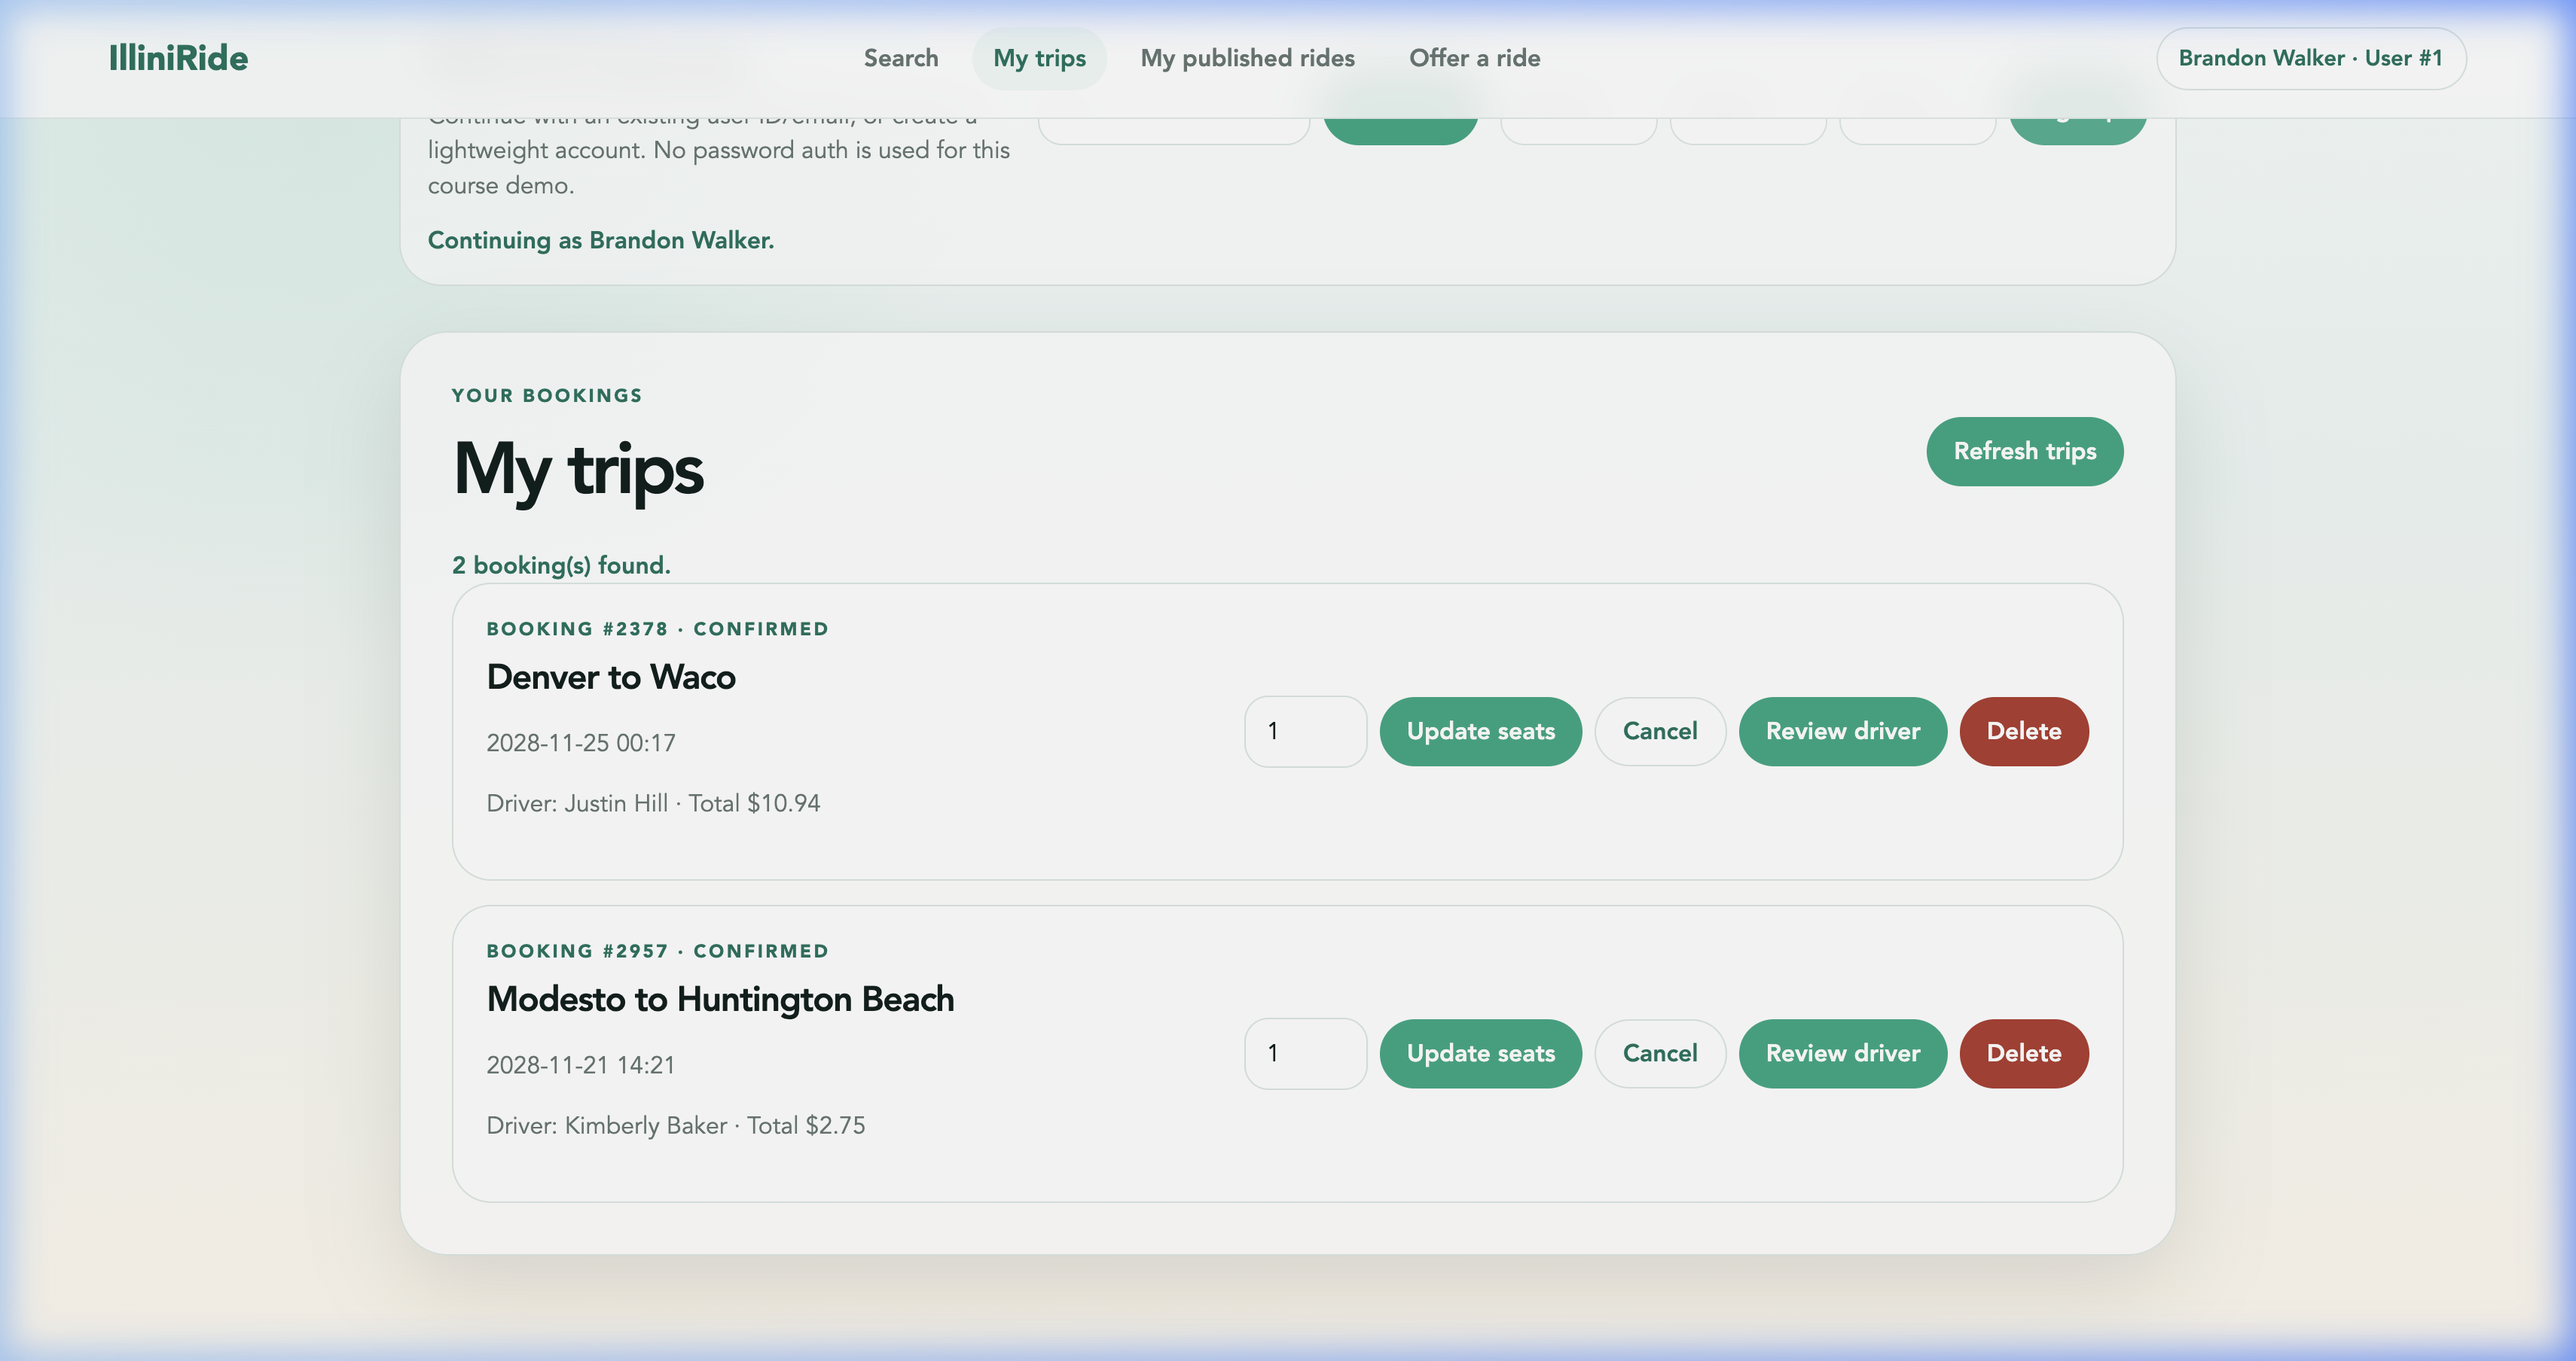
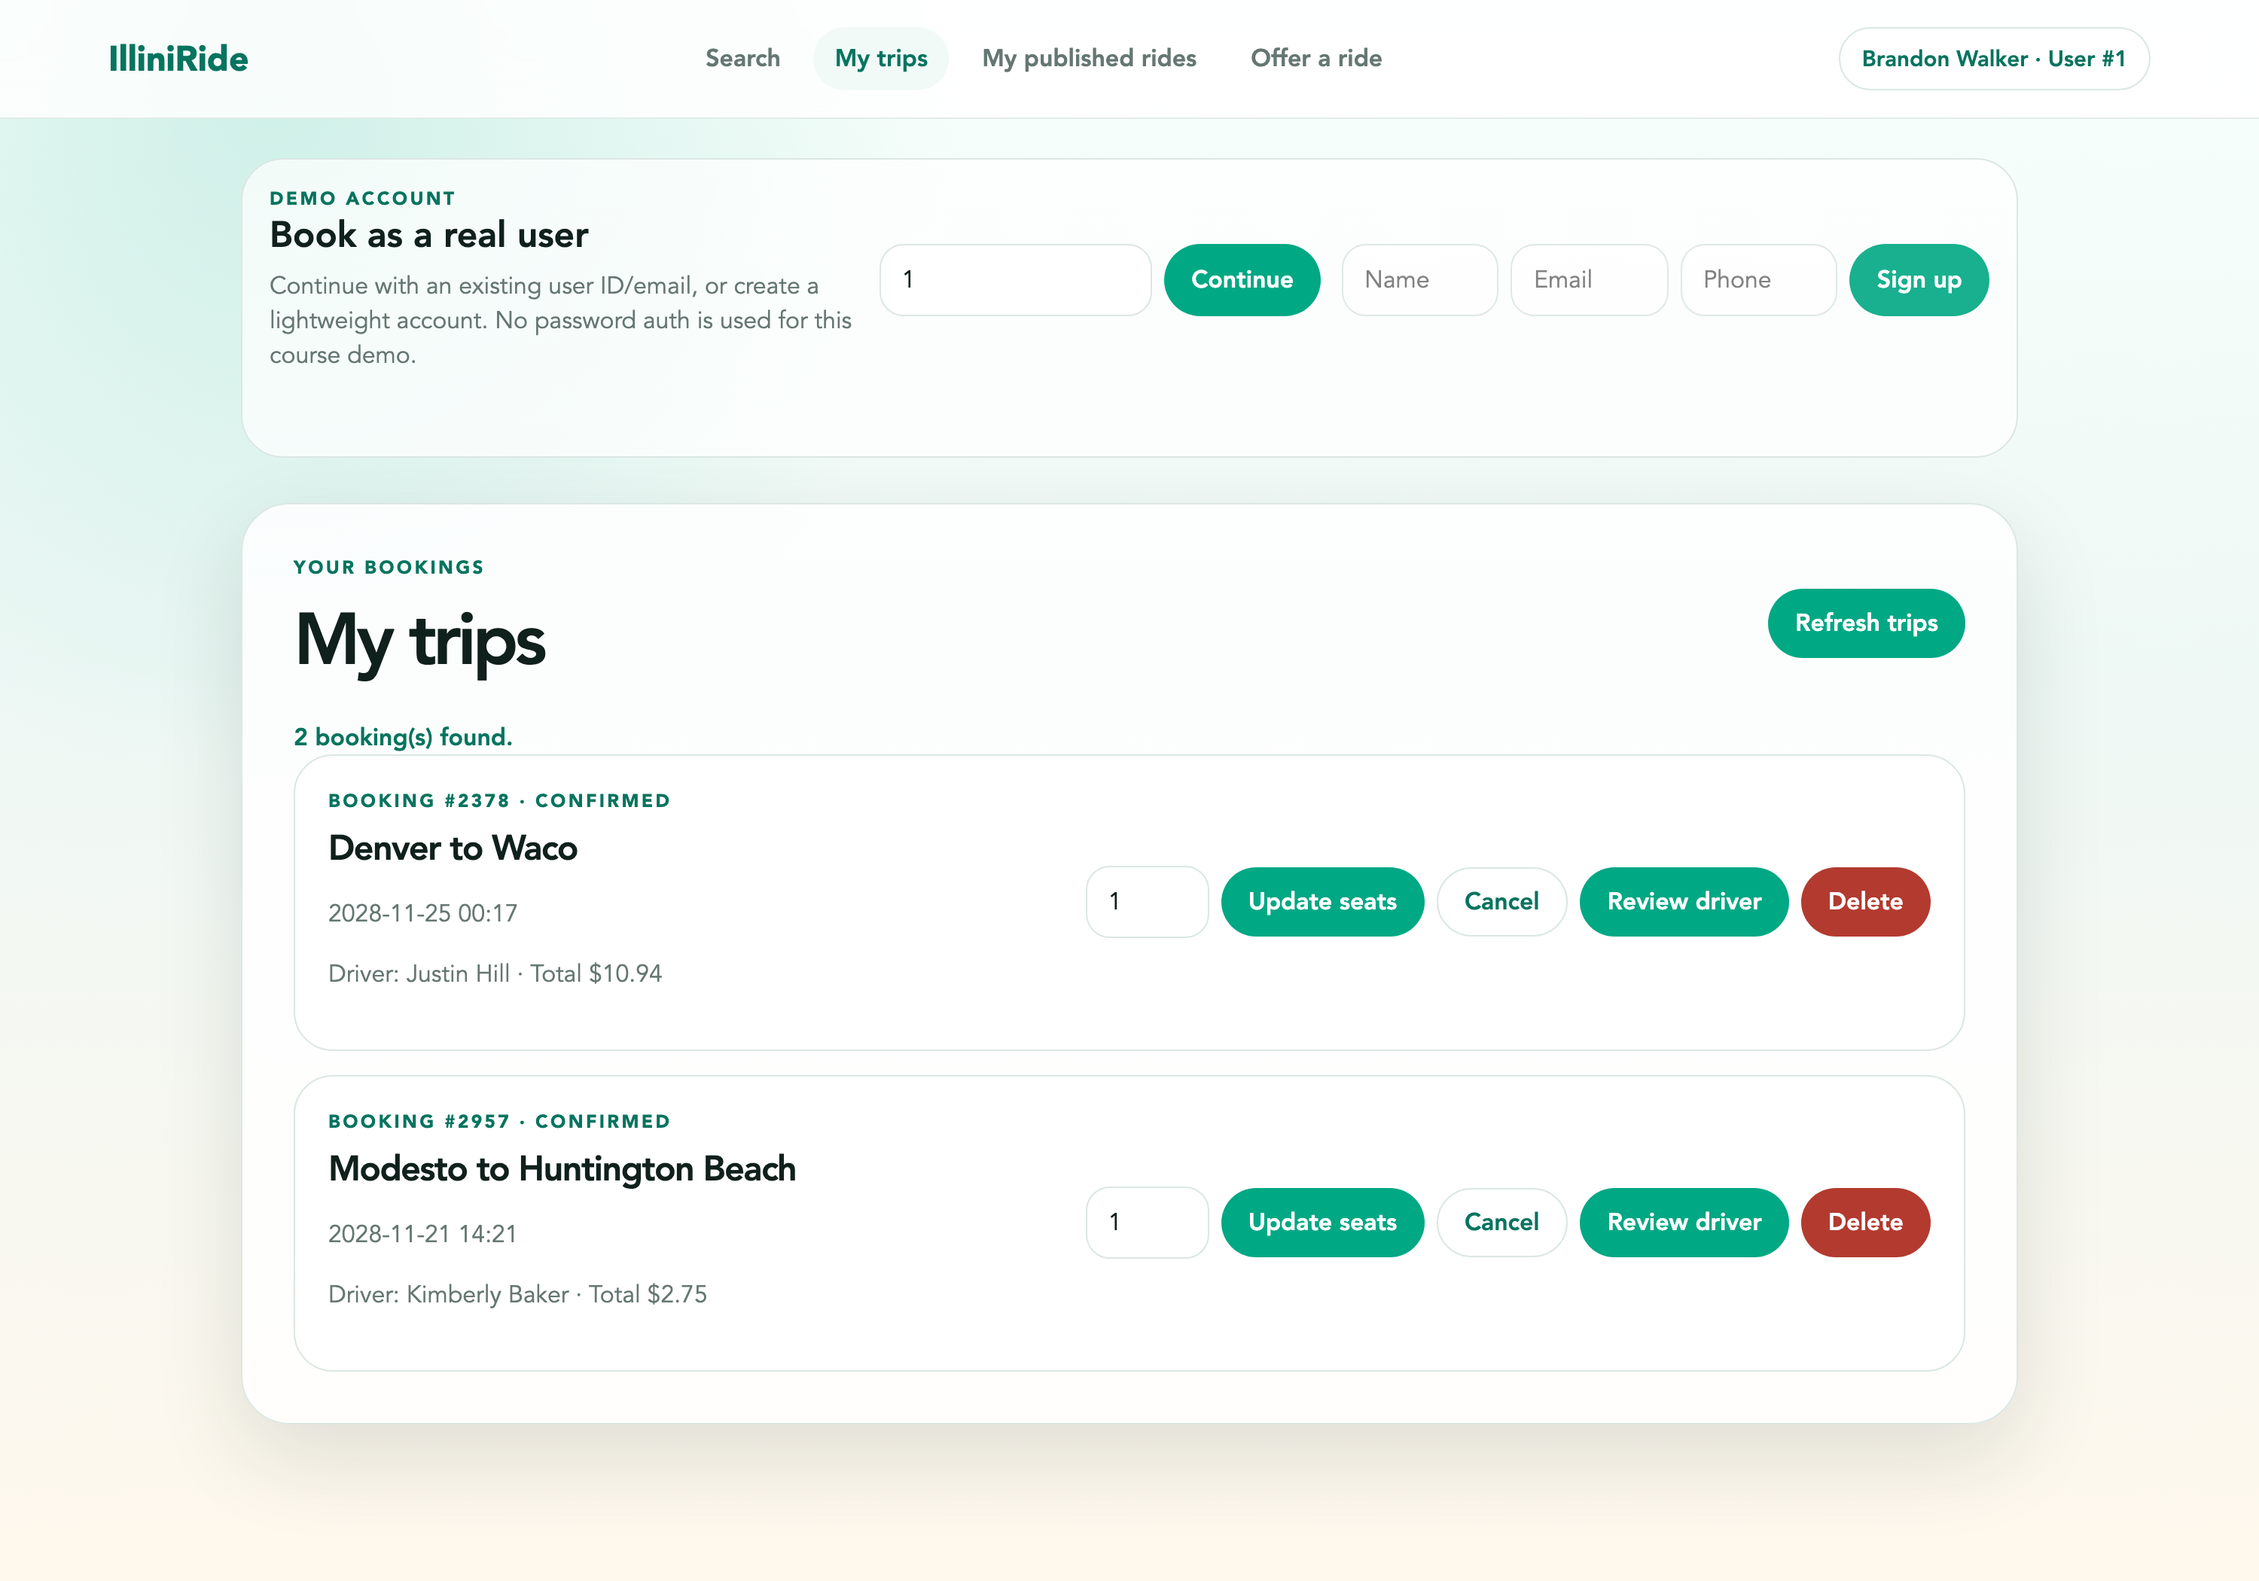
Updating readme with more features

Changed region(s): [[0.0, 0.0, 1.0, 1.0], [0.527, 0.2478, 0.899, 0.8982], [0.279, 0.4336, 0.31, 0.4646]]

diff --git a/app/public/index.html b/app/public/index.html
@@ -45,7 +45,7 @@
         <section class="hero">
           <div class="hero-copy">
             <p class="eyebrow">Campus carpooling</p>
-            <h1>Share the ride out of Champaign.</h1>
+            <h1>Share the ride out of your city.</h1>
             <p>
               Find open seats, book instantly, and split the cost with drivers
               heading the same way.

diff --git a/README.md b/README.md
@@ -37,17 +37,29 @@ Commuting between the UIUC campus and major hubs like Chicago or O'Hare (ORD) is
 
 ## 📸 Application Screenshots
 
-### 1. Ride Search & Availability
-Search for available campus carpools by origin, destination city, date, and seat count:
+### 1. Ride Search & Live Availability
+Search for available campus carpools by origin, destination city, date, and seat count with real-time seat tracking:
 ![Search Rides](doc/screenshots/search_rides.png)
 
-### 2. Offer a Ride & Dynamic Price Calculation
-Drivers can publish rides with automated distance-based suggested pricing powered by MySQL stored procedures:
+### 2. Interactive Booking Flow & Confirmation
+Review trip itinerary, vehicle details, driver ratings, and calculate total cost before safe transactional booking (`sp_book_ride_transaction`):
+![Confirm Booking](doc/screenshots/booking_confirmation.png)
+
+### 3. Offer a Ride & Dynamic Price Calculation
+Drivers can publish rides with automated distance-based suggested pricing powered by MySQL stored procedures (`sp_post_ride_with_suggested_price`):
 ![Offer a Ride](doc/screenshots/offer_ride.png)
 
-### 3. Trips & Bookings Management
-Manage bookings with transaction safety and live status updates:
+### 4. Driver Dashboard — Published Rides
+View all offered carpool rides, current schedules, seat occupancy, and status:
+![Published Rides](doc/screenshots/published_rides.png)
+
+### 5. Rider Dashboard — Trips & Bookings Management
+Manage bookings with transaction safety, update seat counts, cancel trips, and delete reservations:
 ![My Trips](doc/screenshots/my_trips.png)
+
+### 6. Driver Review & Automated Rating Recomputation
+Submit feedback and driver star ratings; triggers automatically recalculate aggregate driver scores (`trg_reviews_after_insert_update_user_rating`):
+![Review Driver](doc/screenshots/review_driver.png)
 
 ---
 
@@ -57,6 +69,7 @@ Manage bookings with transaction safety and live status updates:
 - 🏷 **Dynamic Price Suggestion:** Stored procedure calculates geospatial distance between cities to suggest fair base prices.
 - 🛡 **Safe Seat Booking (ACID):** Stored procedure with serializable transaction isolation prevents overbooking and duplicate reservations.
 - 📋 **Full CRUD Operations:** Complete management for Bookings and Rides with raw SQL execution (zero ORM overhead).
+- 🚗 **Driver Management & Fleet Linking:** Easily select verified driver vehicles when publishing new routes.
 - ⭐ **Automated Rating System:** Database trigger automatically recalculates user ratings whenever new reviews are submitted.
 
 ---
@@ -98,8 +111,11 @@ IlliniRide/
 ├── doc/
 │   ├── screenshots/          # Application UI screenshots
 │   │   ├── search_rides.png
+│   │   ├── booking_confirmation.png
 │   │   ├── offer_ride.png
-│   │   └── my_trips.png
+│   │   ├── published_rides.png
+│   │   ├── my_trips.png
+│   │   └── review_driver.png
 │   ├── stage4_advanced_database_programs.sql # Stored procedures, triggers & transactions
 │   ├── stage4_project_report.md              # Stage 4 reflection report
 │   ├── stage1_proposal.md                    # Project proposal
